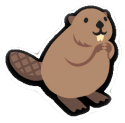
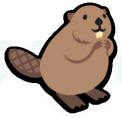
fixed some pet png. bug fixes on utility ai logic

diff --git a/SuperAutoPets Bot.py b/SuperAutoPets Bot.py
@@ -82,8 +82,8 @@ def buy_pet(position,pet):
 
 def sell_Pet(pet):
     #Choose pet
-    pyautogui.click(pyautogui.locateCenterOnScreen(pet + ".png", confidence = .4, region=(450,320, 1000,200)))
-    pyautogui.click(pyautogui.locateCenterOnScreen("sell.png", confidence = .9))
+    pyautogui.click(pyautogui.locateCenterOnScreen(pet + ".png", confidence = .40, region=(450,320, 1000,200)))
+    pyautogui.click(pyautogui.locateCenterOnScreen("sell.png", confidence = .8))
 
 def end_turn():
     global Turn
@@ -185,8 +185,6 @@ def checkWin():
     pyautogui.click()
 
 def buyItem():
-    global Gold
-    while (Gold >= 3):
         if check_Slot_Empty(pos7x,shopy) == False:
             pyautogui.click(pos7x+10,shopy)
             selection = random.randint(1,5)
@@ -206,7 +204,6 @@ def buyItem():
                 pyautogui.click(pos5x,teamy)
                 findGold()
         else: 
-            roll()
             findGold()
 
 
@@ -308,30 +305,29 @@ def chooseNextAction():
         
         
 
-    #Check if upgrade is viable ** Not working **
-    # if None not in Squad:
-    #     for pet in currentShop:
-    #         if pet == Squad[0]:
-    #             upgradePet += 60
-    #         elif pet == Squad[1]:
-    #             upgradePet += 60
-    #         elif pet == Squad[2]:
-    #             upgradePet += 60
-    #         elif pet == Squad[3]:
-    #             upgradePet += 60
-    #         elif pet == Squad[4]:
-    #             upgradePet += 60
+    #Check if upgrade is viable
+    if None not in Squad:
+        for pet in currentShop:
+            if pet == Squad[0]:
+                upgradePet += 60
+            elif pet == Squad[1]:
+                upgradePet += 60
+            elif pet == Squad[2]:
+                upgradePet += 60
+            elif pet == Squad[3]:
+                upgradePet += 60
+            elif pet == Squad[4]:
+                upgradePet += 60
 
-    #Check if sell is viable
-    if ("duck" or "pig" or "rat" or "otter" in Squad) and (Turn > 1) and (None not in Squad):
-        sellPet += 101
+    # #Check if sell is viable CURRENTLY BROKEN
+    # if (("duck" in Squad) or ("pig" in Squad) or ("rat" in Squad) or ("otter" in Squad)) and None not in Squad:
+    #     sellPet += 101
     
     if Gold > 3:
         buyRandomPet += 20
 
-
     if Gold > 3 and None not in Squad:
-        buyItems += 10
+        buyItems += 50
     
     if Gold < 3:
         endTurn += 100
@@ -339,8 +335,8 @@ def chooseNextAction():
     #end utility calculations
 
     #Set decisions
-    possibleDecisions = [buyAnt, buyFish, buyBeaver, buyDuck, buyHorse, buyMosquito, buyPig, buyOtter, buyCricket, buyItems, rollShop, endTurn, upgradePet, buyRandomPet,
-     sellPet]
+    possibleDecisions = [buyAnt, buyFish, buyBeaver, buyDuck, buyHorse, buyMosquito, buyPig, buyOtter, buyCricket, buyCrab, buyDodo, buyElephant, buyFlamingo, buyHedgehog,
+     buyPeacock, buyRat, buyShrimp, buySpider, buySwan, buyItems, rollShop, endTurn, upgradePet, buyRandomPet, sellPet]
     print(possibleDecisions)
 
     #Compare decisions and execute the best one
@@ -384,8 +380,8 @@ def chooseNextAction():
     elif max(possibleDecisions) == buySwan:
         buy_pet(pos1x,"swan")
     #Items currently broken because of item particles
-    #elif max(possibleDecisions) == buyItems:
-    #    buyItem()
+    elif max(possibleDecisions) == buyItems:
+        buyItem()
     elif max(possibleDecisions) == endTurn:
         end_turn()
     elif max(possibleDecisions) == upgradePet:
@@ -401,6 +397,10 @@ def chooseNextAction():
             sell_Pet("pig")
         elif "rat" in Squad: 
             sell_Pet("rat")
+    elif max(possibleDecisions) == rollShop:
+        roll()
+    else: end_turn()
+    
 
 
 def main():
